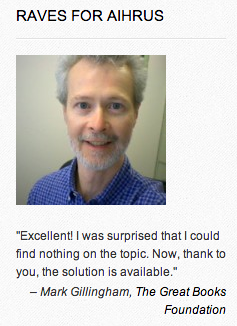
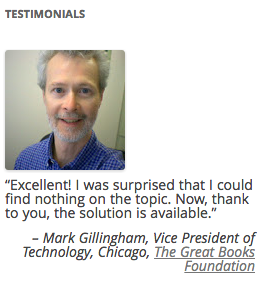
Version 2.9.0
* Add location meta field after title
* Add location related options
* FAQ 18, 34, 35 update
* Screenshot 2, 4, 5 updated

git-svn-id: http://plugins.svn.wordpress.org/testimonials-widget/trunk@681126 b8457f37-d9ea-0310-8a92-e5e31aec5664

diff --git a/testimonials-widget.css b/testimonials-widget.css
@@ -73,17 +73,20 @@
 }
 
 .testimonialswidget_testimonial .testimonialswidget_join_title,
+.testimonialswidget_testimonial .testimonialswidget_join_location,
 .testimonialswidget_testimonial .testimonialswidget_join {
 	/* section between source and company information */
 }
 
 .testimonialswidget_testimonial .testimonialswidget_join_title:before,
+.testimonialswidget_testimonial .testimonialswidget_join_location:before,
 .testimonialswidget_testimonial .testimonialswidget_join:before {
 	/* join text */
 	content: ", "
 }
 
 .testimonialswidget_testimonial .testimonialswidget_title,
+.testimonialswidget_testimonial .testimonialswidget_location,
 .testimonialswidget_testimonial .testimonialswidget_company,
 .testimonialswidget_testimonial .testimonialswidget_url {
 	/* testimonial title, company and url informaiton */

diff --git a/testimonials-widget.php b/testimonials-widget.php
@@ -3,7 +3,7 @@
 	Plugin Name: Testimonials Widget
 	Plugin URI: http://wordpress.org/extend/plugins/testimonials-widget/
 	Description: Testimonials Widget plugin allows you to display random or rotating portfolio, quotes, reviews, showcases, or text with images on your WordPress blog.
-	Version: 2.8.4
+	Version: 2.9.0
 	Author: Michael Cannon
 	Author URI: http://aihr.us/about-aihrus/michael-cannon-resume/
 	License: GPLv2 or later
@@ -287,6 +287,7 @@ class Testimonials_Widget {
 			break;
 
 		case 'testimonials-widget-company':
+		case 'testimonials-widget-location':
 		case 'testimonials-widget-title':
 			$result				= get_post_meta( $post_id, $column, true );
 			break;
@@ -329,6 +330,7 @@ class Testimonials_Widget {
 			'title'							=> __( 'Source', 'testimonials-widget' ),
 			'shortcode'						=> __( 'Shortcodes', 'testimonials-widget' ),
 			'testimonials-widget-title'		=> __( 'Title', 'testimonials-widget' ),
+			'testimonials-widget-location'	=> __( 'Location', 'testimonials-widget' ),
 			'testimonials-widget-email'		=> __( 'Email', 'testimonials-widget' ),
 			'testimonials-widget-company'	=> __( 'Company', 'testimonials-widget' ),
 			'testimonials-widget-url'		=> __( 'URL', 'testimonials-widget' ),
@@ -651,6 +653,7 @@ EOF;
 		$do_content				= ! $atts['hide_content'] && ! empty( $testimonial['testimonial_content'] );
 		$do_email				= ! $atts['hide_email'] && ! empty( $testimonial['testimonial_email'] ) && is_email( $testimonial['testimonial_email'] );
 		$do_image				= ! $atts['hide_image'] && ! empty( $testimonial['testimonial_image'] );
+		$do_location			= ! $atts['hide_location'] && ! empty( $testimonial['testimonial_location'] );
 		$do_source				= ! $atts['hide_source'] && ! empty( $testimonial['testimonial_source'] );
 		$do_title				= ! $atts['hide_title'] && ! empty( $testimonial['testimonial_title'] );
 		$do_url					= ! $atts['hide_url'] && ! empty( $testimonial['testimonial_url'] );
@@ -739,6 +742,15 @@ EOF;
 		if ( $do_title ) {
 			$cite				.= '<span class="testimonialswidget_title">';
 			$cite				.= $testimonial['testimonial_title'];
+			$cite				.= '</span>';
+		}
+
+		if ( $do_location && $cite )
+			$cite				.= '<span class="testimonialswidget_join_location"></span>';
+
+		if ( $do_location ) {
+			$cite				.= '<span class="testimonialswidget_location">';
+			$cite				.= $testimonial['testimonial_location'];
 			$cite				.= '</span>';
 		}
 
@@ -1162,6 +1174,7 @@ EOF;
 				'testimonial_email'		=> $email,
 				'testimonial_extra'		=> '',
 				'testimonial_image'		=> $image,
+				'testimonial_location'	=> get_post_meta( $post_id, 'testimonials-widget-location', true ),
 				'testimonial_source'	=> $row->post_title,
 				'testimonial_title'		=> get_post_meta( $post_id, 'testimonials-widget-title', true ),
 				'testimonial_url'		=> $url,
@@ -1210,6 +1223,12 @@ EOF;
 					array(
 						'name' 	=> __( 'Title', 'testimonials-widget' ),
 						'id' 	=> 'testimonials-widget-title',
+						'type' 	=> 'text',
+						'desc'	=> '',
+					),
+					array(
+						'name' 	=> __( 'Location', 'testimonials-widget' ),
+						'id' 	=> 'testimonials-widget-location',
 						'type' 	=> 'text',
 						'desc'	=> '',
 					),

diff --git a/lib/settings.testimonials-widget.php b/lib/settings.testimonials-widget.php
@@ -136,6 +136,11 @@ class Testimonials_Widget_Settings {
 			'type'				=> 'checkbox',
 		);
 
+		self::$settings['hide_location']	= array(
+			'title'   			=> __( 'Hide Location?', 'testimonials-widget' ),
+			'type'				=> 'checkbox',
+		);
+
 		self::$settings['hide_company']	= array(
 			'title'   			=> __( 'Hide Company?', 'testimonials-widget' ),
 			'type'				=> 'checkbox',
@@ -721,6 +726,7 @@ EOD;
 		$input['hide_email']	= empty( $input['hide_email'] ) ? 0 : self::is_true_int( $input['hide_email'] );
 		$input['hide_gravatar']	= empty( $input['hide_gravatar'] ) ? 0 : self::is_true_int( $input['hide_gravatar'] );
 		$input['hide_image']	= empty( $input['hide_image'] ) ? 0 : self::is_true_int( $input['hide_image'] );
+		$input['hide_location']	= empty( $input['hide_location'] ) ? 0 : self::is_true_int( $input['hide_location'] );
 		$input['hide_not_found']	= empty( $input['hide_not_found'] ) ? 0 : self::is_true_int( $input['hide_not_found'] );
 		$input['hide_source']	= empty( $input['hide_source'] ) ? 0 : self::is_true_int( $input['hide_source'] );
 		$input['hide_title']	= empty( $input['hide_title'] ) ? 0 : self::is_true_int( $input['hide_title'] );
